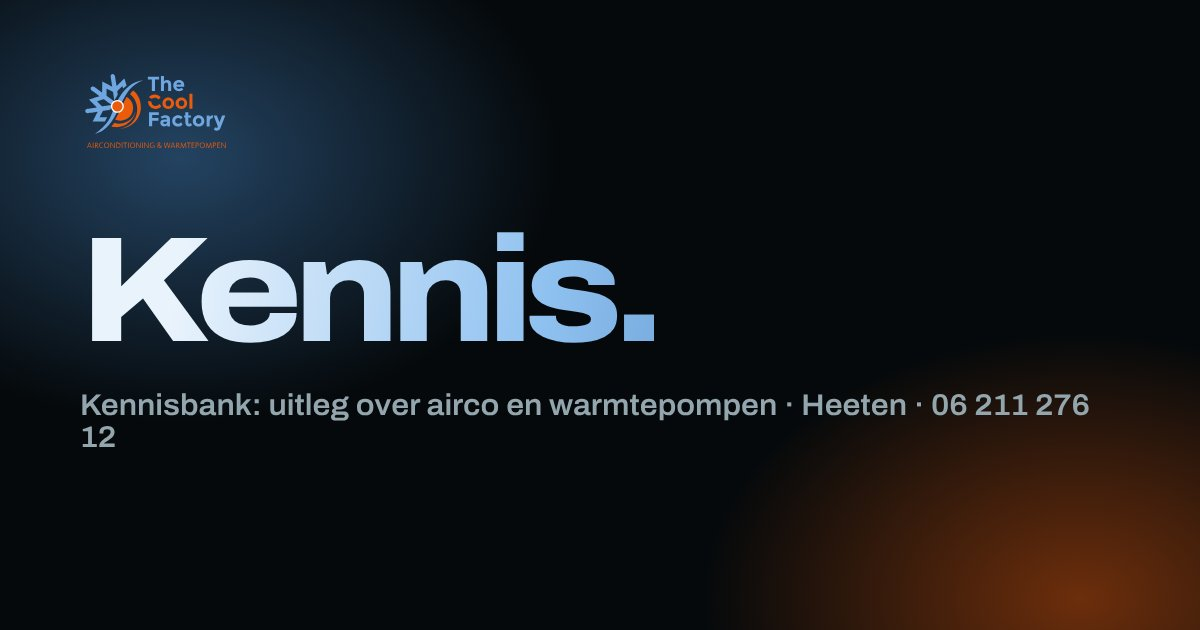
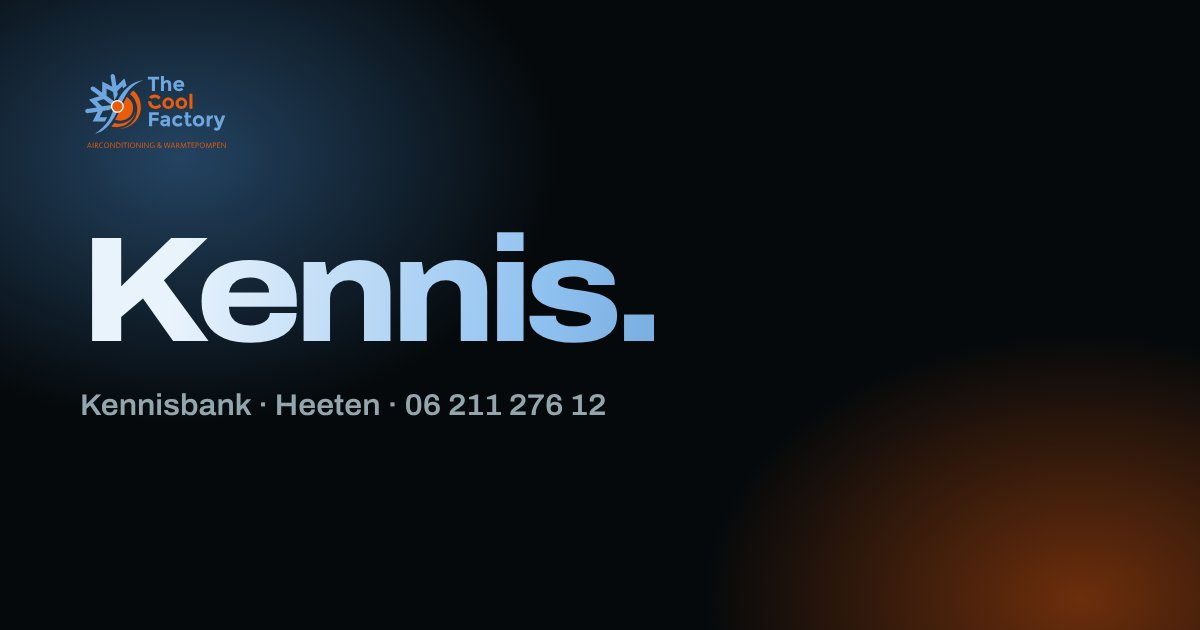
Reviewronde 2: canonical van home, kruimelpad en artikel-schema gerepareerd, kennisbank beter vindbaar, hoekige kaarten
- Home: canonical/og:url naar / in plaats van /index, eigen deelafbeelding, geen kruimelpad
- Kruimelpad: naam valt niet meer terug op false
- Artikel: image, datePublished en og:type article; contactknop met onderwerp
- Artikelen linken in de tekst naar de dienstpagina's; kennisbankblok op Vragen
- Kaarten en panelen hoekig (4px), alleen knoppen rond
- 'Lees ook' netter, deelafbeeldingen kennisbank met kortere ondertitel
- Testscript van reviewer verwijderd en .review-* genegeerd

Claude-Session: https://claude.ai/code/session_01LybAoXsPQ9ymapMVE7HWcf

Changed region(s): [[0.2158, 0.6032, 0.925, 0.6635], [0.0617, 0.6635, 0.0925, 0.7238]]

diff --git a/src/content.config.ts b/src/content.config.ts
@@ -69,6 +69,7 @@ const kennis = defineCollection({
     woord: z.string().max(12),
     accent: z.enum(['koud', 'warm']),
     volgorde: z.number().default(100),
+    gepubliceerd: z.coerce.date().optional(),
     bijgewerkt: z.coerce.date(),
     leestijd: z.number(),
     kernpunten: z.array(z.string()).min(2).max(5),

diff --git a/src/styles/global.css b/src/styles/global.css
@@ -30,8 +30,9 @@
   --text: #0c1d23;
   --muted: #4d6168;
 
-  --radius: 14px;
-  --radius-lg: 22px;
+  /* Hoekig ontwerp: alleen knoppen zijn rond */
+  --radius: 4px;
+  --radius-lg: 4px;
   --wrap: 1180px;
   --gutter: clamp(16px, 4vw, 32px);
 

diff --git a/src/content/kennis/verwarmen-met-een-airco.md b/src/content/kennis/verwarmen-met-een-airco.md
@@ -47,3 +47,7 @@ Volgens Milieu Centraal is het rendement van een moderne airco ongeveer gelijk a
 ## Waar let je op bij aanschaf?
 
 Kies een split-model (met binnen- én buitenunit) met energielabel A++ of hoger. Laat het vermogen afstemmen op de ruimte: te klein werkt niet goed, te groot slaat steeds aan en uit. En laat de installatie doen door een gecertificeerd bedrijf, want werken aan het koudemiddelcircuit is wettelijk voorbehouden aan F-gassen-gecertificeerde installateurs.
+
+## Verder
+
+Lees meer over [een airco laten plaatsen](/airconditioning), met de keuze tussen single- en multi-split. Wil je je hele huis verwarmen? Kijk dan bij [warmtepompen](/warmtepompen).

diff --git a/src/content/kennis/hybride-of-all-electric.md b/src/content/kennis/hybride-of-all-electric.md
@@ -54,3 +54,7 @@ Er zijn hybride systemen met een groter vermogen die later, als je huis beter ge
 ## Subsidie
 
 Voor zowel hybride als all-electric warmtepompen bestaat de landelijke ISDE-subsidie. De voorwaarden en bedragen veranderen regelmatig; kijk voor de actuele stand op de site van RVO.
+
+## Verder
+
+Wil je weten wat in jouw huis past? Lees meer over [een warmtepomp laten installeren](/warmtepompen) of doe daar de korte geschiktheidscheck.
